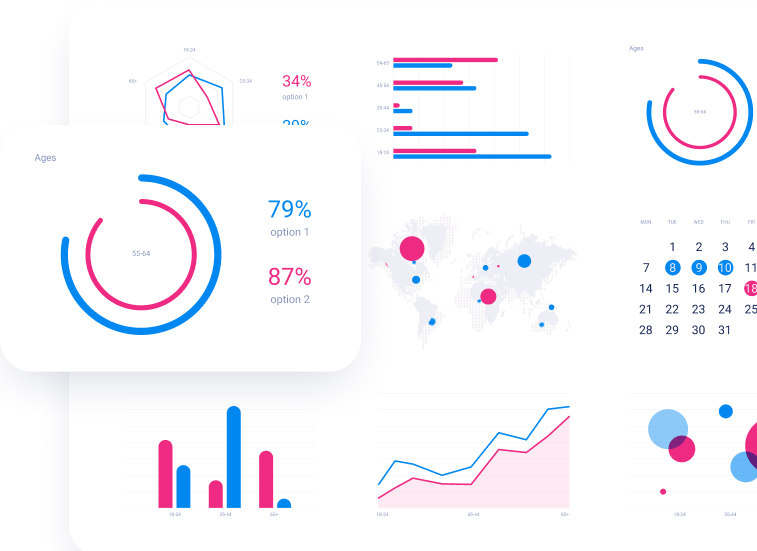
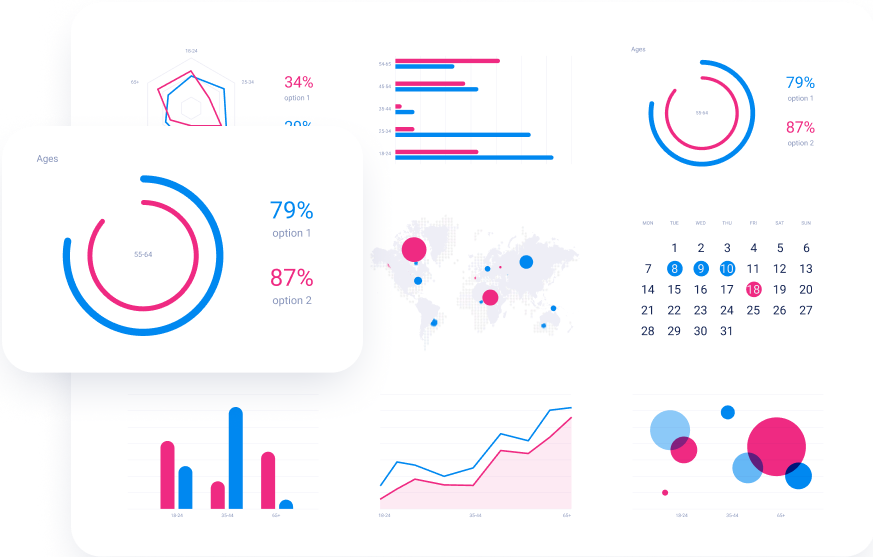
Добавил изменения

diff --git a/style/style.css b/style/style.css
@@ -22,7 +22,6 @@ body {
 
 /* ---------------------- header ------------------------ */
 .page-header-wrp {
-    position: relative;
     margin-bottom: 38px;
     min-height: 815px;
     width: 100%;
@@ -173,8 +172,8 @@ body {
 
 #header-menu-switch {
     display: none;
-  }
-  .menu-mobile-block-wrp {
+}
+.menu-mobile-block-wrp {
     display: none;
     width: 50%;
     min-height: 65%;
@@ -185,8 +184,9 @@ body {
     right: 0px;
     position: absolute;
     top:75px;
-  }
-  .menu-list-close-btn {
+    z-index: 1;
+}
+.menu-list-close-btn {
     display: block;
     width: 24px;
     height: 24px;
@@ -195,9 +195,9 @@ body {
     position: relative;
     top: 20px;
     left: 0;
-  }
-  .menu-list-close-btn::before,
-  .menu-list-close-btn::after {
+}
+.menu-list-close-btn::before,
+.menu-list-close-btn::after {
     content: "";
     display: block;
     width: 24px;
@@ -208,19 +208,19 @@ body {
     top: 10px;
     transform: rotate(45deg);
     transition: background-color 0.8s ease;
-  }
-  .menu-list-close-btn::after {
+}
+.menu-list-close-btn::after {
     transform: rotate(-45deg)
-  }
-  .menu-list-close-btn:hover::before,
-  .menu-list-close-btn:hover::after {
+}
+.menu-list-close-btn:hover::before,
+.menu-list-close-btn:hover::after {
     background: #FFFFFF;
-  }
-  .menu-list-close-btn:active::before,
-  .menu-list-close-btn:active::after{
+}
+.menu-list-close-btn:active::before,
+.menu-list-close-btn:active::after{
     background: #8794BA;
-  }
-  .menu-list-title {
+}
+.menu-list-title {
     text-align: center;
     display: block;
     font-size: 24px;
@@ -229,47 +229,47 @@ body {
     color: #FFF;
     opacity: 0.8;
     text-transform: uppercase;
-  }
-
-  .menu-mobile-list-item > a {
+}
+.menu-mobile-list-item > a {
     display: block;
     font-size: 20px;
     text-align:center; 
     margin: 0 0 11px 0;
     color: #8794BA;
     transition: color 0.8s ease;
-  }
-  .menu-mobile-list-item:nth-child(3) {
+}
+.menu-mobile-list-item:nth-child(3) {
     text-transform: uppercase;
-  }
-  .menu-mobile-list-item:hover > a {
+}
+.menu-mobile-list-item:hover > a {
     color: #FFFFFF;
-  }
-  .menu-mobile-list-item:active > a {
+}
+.menu-mobile-list-item:active > a {
     color: #9D2334;
-  }
-  .btn-reg{
-      display: block;
-      width: 230px;
-      height: 48px;
-      background-color: #1E2E5C;
-      border: 1px solid #465B95;
-      border-radius: 68px;
-      color:#8794BA;
-      margin: 0 auto;
-      transition: color 0.8s ease;
-      transition: background-color 0.8s ease;
-      cursor: pointer;
-  }
-  .btn-reg:hover {
+}
+.btn-reg{
+    display: block;
+    width: 230px;
+    height: 48px;
+    background-color: #1E2E5C;
+    border: 1px solid #465B95;
+    border-radius: 68px;
+    color:#8794BA;
+    margin: 0 auto;
+    transition: color 0.8s ease;
+    transition: background-color 0.8s ease;
+    cursor: pointer;
+}
+.btn-reg:hover {
     background-color:#8794BA ;
     color:#1E2E5C;
-  }
+}
 
 /* ---------------------- burger menu ------------------------ */
 
 
 .page-header__monitoring-wrp {
+    position: relative;
     /* padding-left: calc(50% - 800px);
     padding-right: calc(50% - 800px); */
     display: flex;
@@ -338,8 +338,8 @@ body {
     height: 555px;
     max-width: 873px;
     width: 100%;
-    left: 780px;
-    top: 164px;
+    left: 628px;
+    top: -3px;
     box-shadow: 74px 18px 50px -15px rgba(25, 42, 89, 0.2);
 }
 
@@ -718,6 +718,19 @@ body {
     padding: 32px 0;
     max-width: 428px;
     width: 100%;
+    position: relative;
+}
+.Authorization-block::before {
+    content: "";
+    display: block;
+    width: 480px;
+    height: 480px;
+    background-color: #F9F0FF;
+    border-radius: 3px;
+    position: absolute;
+    top: 42px;
+    left: calc(50% - 240px);
+    z-index: -1;
 }
 .Authorization-block-title {
     margin-bottom: 16px;
@@ -932,8 +945,20 @@ body {
 
 
 @media (max-width: 1024px) {
+    .center {
+        max-width: 900px;
+    }
 
-
+    .content__automated_reports-image-wrp,
+    .content__fully__customizable-image-wrp,
+    .content__prebuilt__templates-image-wrp {
+        height: 330px;
+    }
+    .content__automated_reports,
+    .content__fully__customizable,
+    .content__prebuilt__templates {
+        align-items: center;
+    }
     .plans-cart-wrp {
         gap: 20px;
         overflow-x: scroll;
@@ -963,6 +988,9 @@ body {
 
 }
 @media (max-width: 900px) {
+    .center {
+        max-width: 767px;
+    }
     .page-header-block-wrp {
         box-shadow: 0px 4px 4px #12214D;
         padding: 20px 0;
@@ -985,7 +1013,6 @@ body {
     }
     .header-menu-burger-btn {
         display: block;
-        margin-right: 5px;
     }
     .monitoring-img-wrp {
         display: none;
@@ -1017,6 +1044,9 @@ body {
 }
 
 @media (max-width: 767px) {
+    .center {
+        max-width: 600px;
+    }
     .page-header-wrp {
         margin-bottom: 50px;
     }
@@ -1028,6 +1058,7 @@ body {
     }
     .page-header-logo a svg {
         height: 30px;
+        max-width: 138px;
     }
     .monitoring-img-wrp {
         display: none;
@@ -1064,6 +1095,7 @@ body {
     .page-header__monitoring {
         margin: 0;
         max-width: 335px;
+        min-height: 246px;
     }
     .header-menu-burger-btn {
         margin: 0;
@@ -1106,7 +1138,9 @@ body {
     .Authorization-content {
         display: none;
     }
-
+    .Authorization-block::before {
+        display: none;
+    }
 
     
     .page-footer-menu {
@@ -1115,21 +1149,12 @@ body {
 }
 
 @media (max-width: 400px) {
-    .content__automated_reports-image-wrp,
-    .content__fully__customizable-image-wrp,
-    .content__prebuilt__templates-image-wrp {
-        height: 340px;
-    }
-}
-
-
-
-@media (max-width: 375px) {
     .center {
-        max-width: 375px;
+        max-width: 335px;
         width: 100%;
         margin: 0 auto;
     }
+
     .main-content-features {
         margin-bottom: 71px;
     }
@@ -1158,6 +1183,21 @@ body {
         text-align: left;
 
     }
+
+
+
+    .content__automated_reports-image-wrp,
+    .content__fully__customizable-image-wrp,
+    .content__prebuilt__templates-image-wrp {
+        height: 340px;
+    }
+}
+
+
+
+@media (max-width: 375px) {
+
+
 
     .content__automated_reports,
     .content__fully__customizable,

diff --git a/js/main.js b/js/main.js
@@ -38,3 +38,11 @@ form.addEventListener('input', (event) => {
     }
   })
 })
+
+
+
+const mediaMobile = window.matchMedia("(max-width: 600px)");
+const monitoringTxt = document.querySelector('.monitoring-txt');
+if (mediaMobile.matches) {
+    monitoringTxt.textContent = "Lorem ipsum dolor sit amet, consectetur adipiscing elit. Elementum nisi aliquet volutpat pellentesque volutpat est.";
+}
